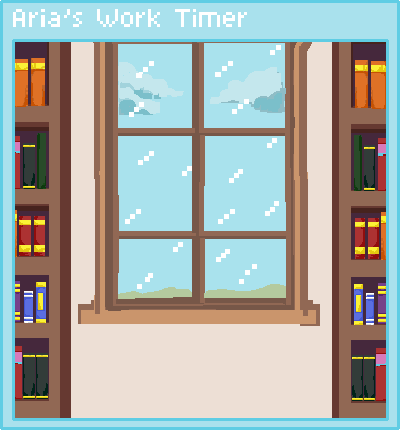
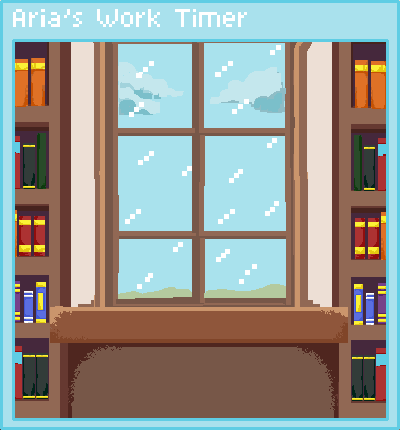
Added work gif
- added desk in bg
- added work gif
- removed messages for space for gif

diff --git a/src/App.tsx b/src/App.tsx
@@ -9,50 +9,18 @@ import breakBtnClicked from "./assets/break-blue-clicked.png";
 import closeBtn from "./assets/close.png";
 import playImg from "./assets/play.png";
 import resetImg from "./assets/reset.png";
+import workGif from "./assets/work.gif";
 
 
 function App() {
   const [timeLeft, setTimeLeft] = useState(25 * 60);
   const [isRunning, setIsRunning] = useState(false);
   const [isBreak, setIsBreak] = useState(false);
-  const [encouragement, setEncouragement] = useState("");
   const [workButtonImage, setWorkButtonImage] = useState(workBtn);
   const [breakButtonImage, setBreakButtonImage] = useState(breakBtn);
   const [image, setImage] = useState(playImg);
+  const [gifImage, setGifImage] = useState(workGif);
 
-  const workMessages = [
-    "Is this all you got?",
-    "This is not time for our GM to be slacking.",
-    "Stay Focused!",
-    "These papers, won't sign themselves.",
-  ];
-
-  const breakMessages = [
-    "There's more where that came from.",
-    "Rest up.",
-    "A well-deserved break.",
-    "See, it's not so bad",
-  ];
-
-  useEffect(() => {
-    let messageInterval: NodeJS.Timeout;
-
-    if(isRunning){
-      const messages = isBreak ? breakMessages : workMessages;
-      setEncouragement(messages[0]); //set first message
-
-      let index = 1;
-
-      messageInterval = setInterval(() => {
-        setEncouragement(messages[index]);
-        index = (index + 1) % messages.length;
-      }, 4000); //4 sec interval
-    } else {
-      setEncouragement("");
-    }
-
-    return () => clearInterval(messageInterval);
-  }, [isRunning, isBreak]);
 
   //Countdown Timer
   useEffect(() => {
@@ -122,15 +90,12 @@ function App() {
           </button>
         </div>
 
-          {/* Here will display working animations instead of encouragement --> Can have character dialogue instead */}
-      <p className={`encouragement-text ${isRunning ? "hidden" : ""} ${isBreak ? "break-text" : ""}`}>
-        {encouragement}
-      </p>
-
-      
       <h1 className={timerClass}>{formatTime(timeLeft)}</h1>
-      <img src={closeBtn} alt="Timer Status" className="gif-image"/><p>Will be replaced with gifs</p>
-
+      
+      <div className = "container-to-be-behind">
+        <img src={gifImage} alt="Timer Status" className="gif-image"/>
+      </div>
+      
       <button className="home-button" onClick={handleClick}>
         <img src={playImg} />
       </button>

diff --git a/src/App.css b/src/App.css
@@ -49,15 +49,15 @@ body {
   font-size: 1.25rem;
   color: #b94e98;
   margin-bottom: 0.5rem;
-  animation: fadeIn 1s ease-in-out;
-  transition: opacity 0.8s ease;
+  /* animation: fadeIn 1s ease-in-out; */
+  /* transition: opacity 0.8s ease; */
 }
 
 .encouragement-text .break-text {
   color: #57a4ec;
 }
 
-.encouragement-text.hidden {
+.encouragement-text .hidden {
   opacity: 0;
 }
 
@@ -84,7 +84,12 @@ body {
 .home-timer {
   font-size: 60px;
   color: #d77bba;
-  margin: 0;
+  padding: 0;
+  z-index: 1;
+  border-radius: 0;
+  margin-top: 50px;
+  position:fixed;
+  
 }
 
 .timer-blue {
@@ -92,7 +97,12 @@ body {
 }
 
 .gif-image {
-  height: 100px;
+  height: 150px;
+}
+
+.container-to-be-behind {
+  position: absolute;
+  bottom: 101px;
 }
 
 .home-button {

diff --git a/public/index.html b/public/index.html
@@ -24,7 +24,7 @@
       work correctly both with client-side routing and a non-root public URL.
       Learn how to configure a non-root public URL by running `npm run build`.
     -->
-    <title>React App</title>
+    <title>Pomodoro Timer</title>
   </head>
   <body>
     <noscript>You need to enable JavaScript to run this app.</noscript>

diff --git a/public/electron.js b/public/electron.js
@@ -6,8 +6,8 @@ const path = require('path');
 function createMainWindow() {
     const mainWindow = new BrowserWindow({
         title: 'Arias GM Duties',
-        width: 400,
-        height: 430
+        width: 430,
+        height: 500
     });
 
     const startUrl = url.format({
